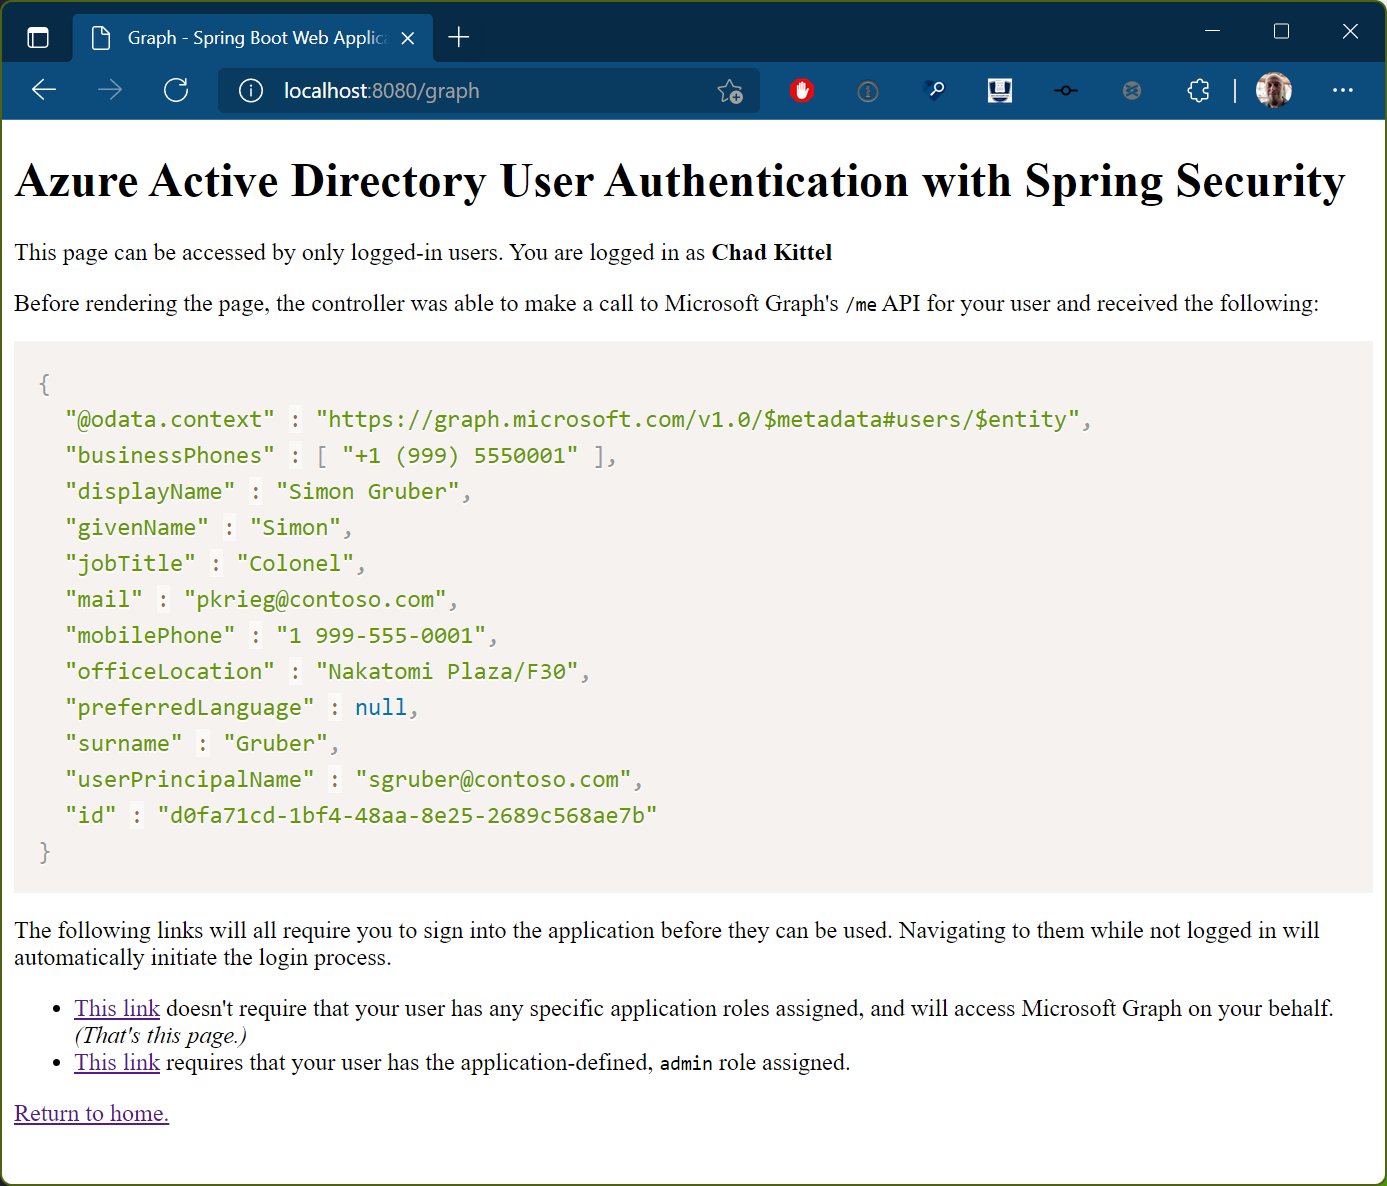
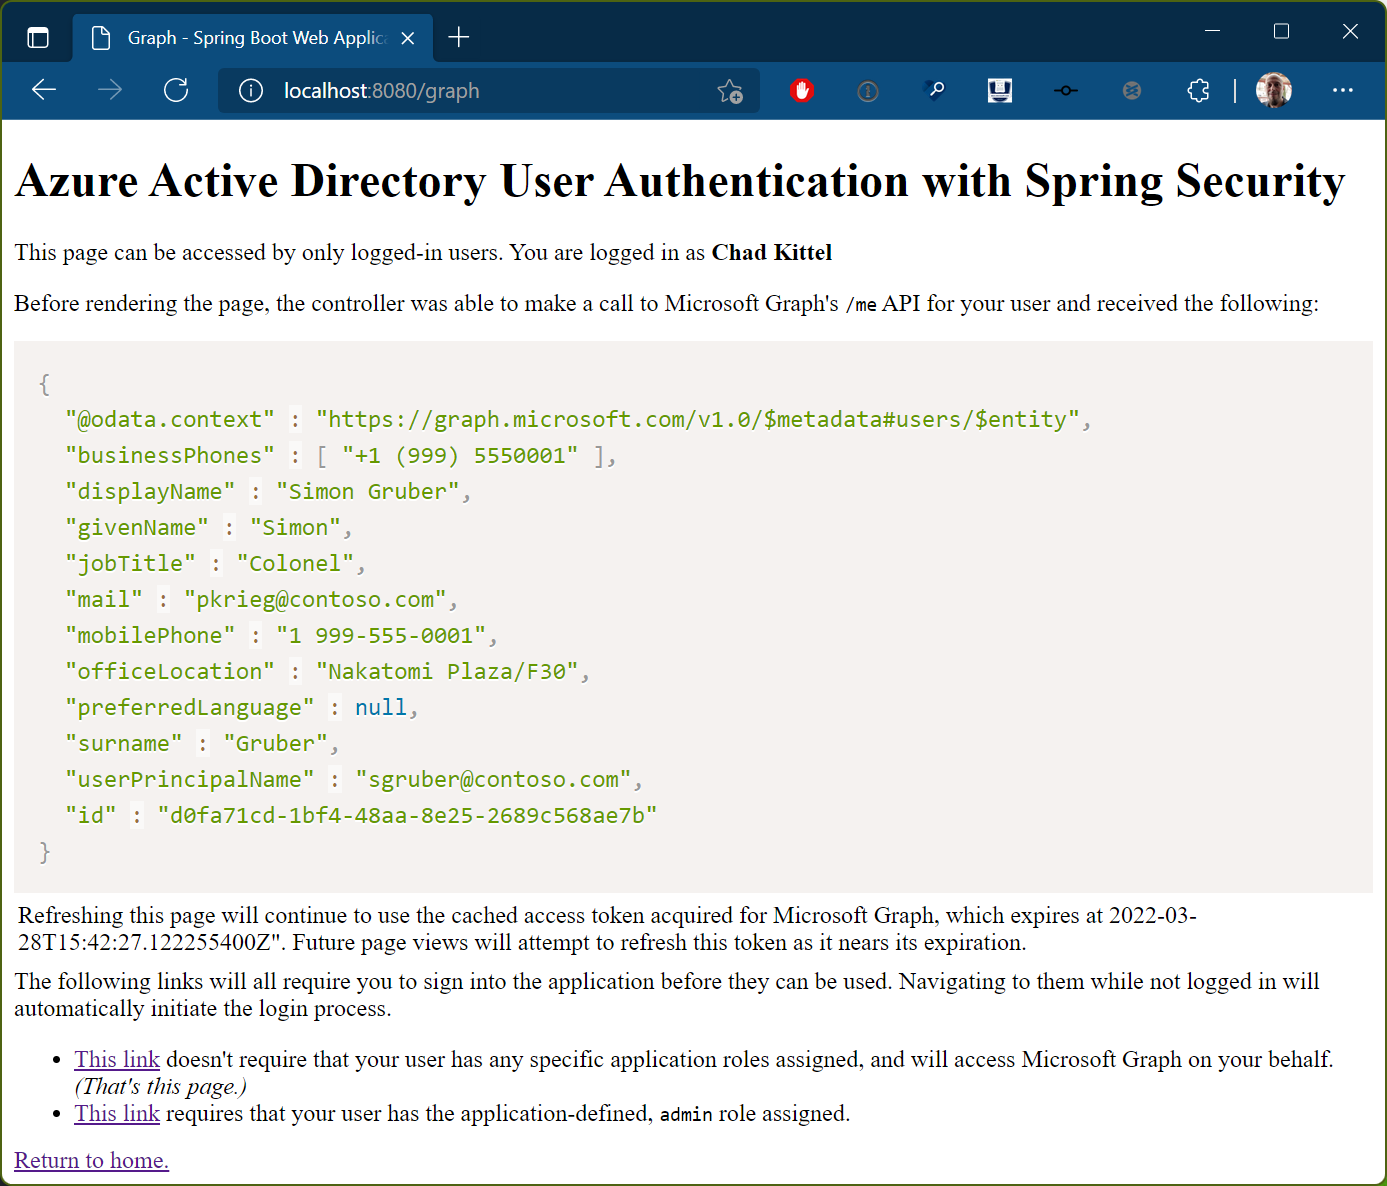
Add token cache visualization (#10)
* Add cache info

* Update screenshot and java version mismatch

* Wrong sample #

Changed region(s): [[0.0, 0.7487, 0.9611, 0.9983]]

diff --git a/webapp/src/main/resources/templates/graph.html b/webapp/src/main/resources/templates/graph.html
@@ -29,6 +29,10 @@
           following:
         </p>
         <p><pre><code class="language-js" th:text="${jsonBody}"></code></pre></p>
+        <p>
+          Refreshing this page will continue to use the cached access token acquired
+          for Microsoft Graph, which expires at <span th:text="${ graphAccessTokenExpiresAt }"></span>".
+          Future page views will attempt to refresh this token as it nears its expiration.</p>
       </div>
       <div>
         <p>

diff --git a/webapp/src/main/java/com/contoso/webapp/IndexController.java b/webapp/src/main/java/com/contoso/webapp/IndexController.java
@@ -54,6 +54,7 @@ public class IndexController {
         }
 
         model.addAttribute("jsonBody", responseJson);
+        model.addAttribute("graphAccessTokenExpiresAt", msalGraphClient.getAccessToken().getExpiresAt());
 
         return "graph";
     }

diff --git a/webapp/README.md b/webapp/README.md
@@ -15,6 +15,8 @@ urlFragment: ms-identity-docs-code-webapp-java
 ---
 -->
 
+<!-- SAMPLE ID: DOCS-CODE-018 -->
+
 # Java Spring Boot | web app | user sign-in, access control (protected routes), protected web API access (Microsoft Graph) | Microsoft identity platform
 
 <!-- Build badges here
@@ -30,7 +32,7 @@ This sample demonstrates a Java Spring Boot web application that is both protect
 ## Prerequisites
 
 - Azure Active Directory (Azure AD) tenant and the permissions or role required for managing app registrations in the tenant.
-- Java 8+
+- Java 11+
 - Maven
 
 ## Setup
